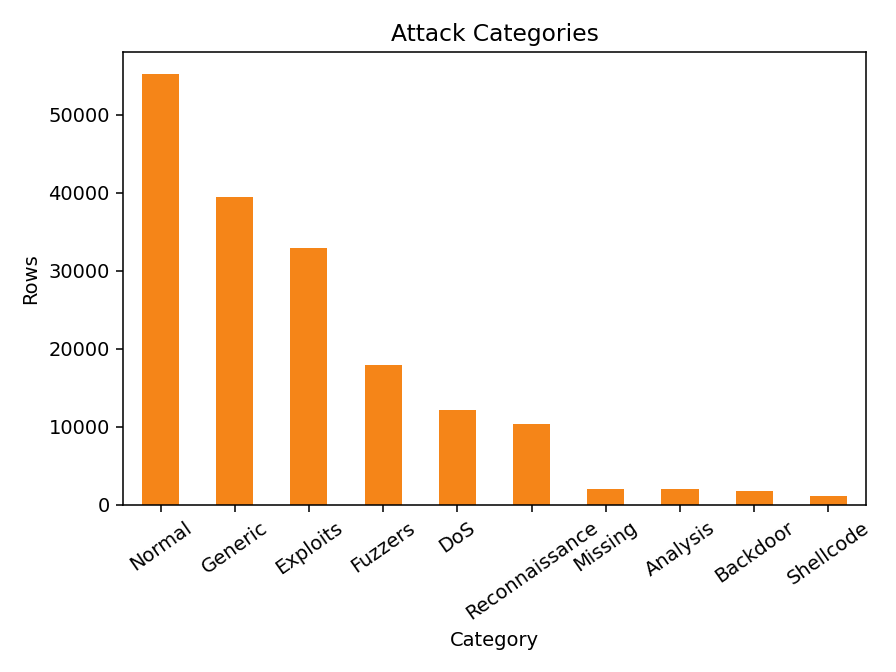
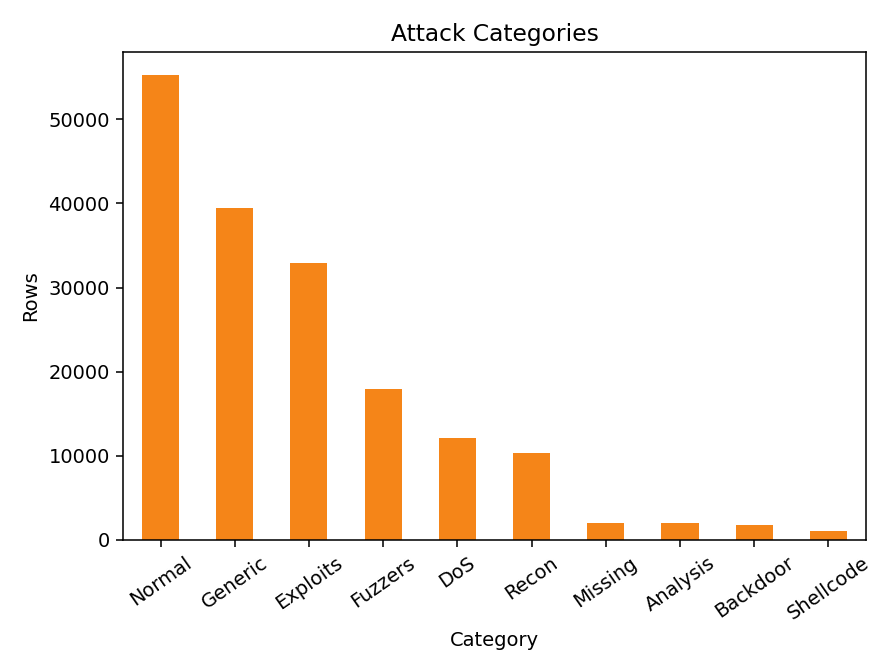
Graph fix

diff --git a/code/graphs.py b/code/graphs.py
@@ -21,7 +21,7 @@ def make_plots(data, out_folder, target):
     add_labels(ax)
     save_plot(out_folder, "label_counts.png")
 
-    attack_counts = data["attack_cat"].fillna("Missing").value_counts().head(10)
+    attack_counts = data["attack_cat"].fillna("Missing").replace({"Reconnaissance": "Recon"}).value_counts().head(10)
     ax = attack_counts.plot(kind="bar", color=ATTACK_COLOR)
     ax.set_title("Attack Categories")
     ax.set_xlabel("Category")
